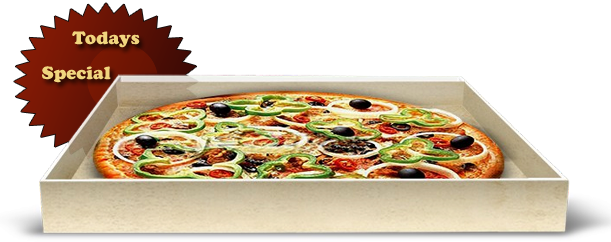
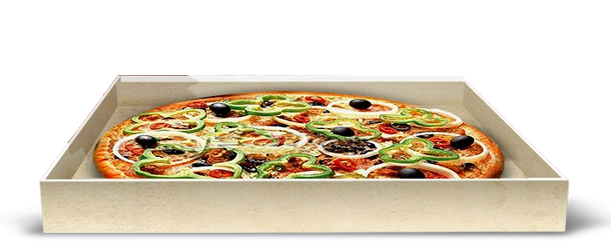
Finalização do trabalho

Changed region(s): [[0.0, 0.0, 0.3421, 0.6074]]

diff --git a/pizzaria/theme/static/css/style.css b/pizzaria/theme/static/css/style.css
@@ -50,7 +50,7 @@ div, h1, h2, p, form, label, input, textarea, img, span{
 	height:130px;
 }
 #logo-theme{
-	margin-left:20px;
+	margin-left:50px;
 }
 
 #navigation{
@@ -95,7 +95,6 @@ div, h1, h2, p, form, label, input, textarea, img, span{
 	width:257px;
 	height:185px;
 	float:left;
-	padding-top:20px;
 }
 #food_categories p{
 	padding-left:20px;
@@ -127,128 +126,43 @@ div, h1, h2, p, form, label, input, textarea, img, span{
 	border:dotted 1px #fff;
 	background-color:#e19a32;
 }
+#content{
+    background-color:#e6e6fa;
+    padding:10px;
+}
+
 #content p{
 	font:normal 11px/18px Verdana, Arial, Helvetica, sans-serif;
 	/*color:#fad18e;*/
 	padding:10px;
 }
 
-#content{
-	background-color:#e6e6fa;
-	padding:10px;
+#content #list-prod {
+    margin:0 5px 5px 0;
+    border-bottom: #000 1px dashed;
+    
 }
 
-/*
-
-#para p
-{
-font:normal 11px/18px Verdana, Arial, Helvetica, sans-serif;
-color:#fad18e;
-padding:10px;
+#content #list-prod p{
+    margin:0 0 5px 0;
+    padding:0;
+    font-weight: bolder;
+    
+}
+#content #list-prod p a,
+#content #list-prod p a:hover{
+    color: #65180c; 
+    
 }
 
-#cont
-{
-width:608px;
-}
-#cont h1
-{
-font:bold 18px/18px Arial, Helvetica, sans-serif;
-color:#fff;
-padding:20px 0 0 20px;
-}
-#cont h2
-{
-font:bold 18px/18px Arial, Helvetica, sans-serif;
-color:#e9b156;
-padding:10px 0 0 30px;
-}
-#cont h3
-{
-font:bold 14px/18px Arial, Helvetica, sans-serif;
-color:#e9b156;
-padding:0 0 0 30px;
-}
-#offer
-{
-width:195px;
-height:185px;
-background:url(images/hot_offer.jpg) 0 0 no-repeat;
-}
-#offer pre
-{
-font:bold 14px/20px Arial, Helvetica, sans-serif;
-color:#f7a70a;
-padding-left:100px;
-}
-#offer .more
-{
-background:url(images/button.jpg) 125px 0 no-repeat;
-width:61px;
-height:20px;
-font:normal 12px/18px Arial, Helvetica, sans-serif;
-padding-left:140px;
-}
-#offer .more a
-{
-color:#670b00;
-text-decoration:none;
+
+#content #list-prod span{
+    margin:3px 0 0 20px;
+    padding:0;
+    
+    
 }
 
-#special
-{
-width:195px;
-height:185px;
-background:url(images/todays_special.jpg) 0 0 no-repeat;
-}
-#special p
-{
-font:normal 11px/18px Verdana, Arial, Helvetica, sans-serif;
-color:#ffd8a4;
-padding:0 0 0 100px;
-width:90px;
-}
-
-#pizza_search
-{
-width:195px;
-height:185px;
-background:url(images/pizza_search.jpg) 0 0 no-repeat;
-}
-#search
-{
-padding-left:20px;
-}
-.textbox
-{
-background:url(images/textbox.png) 0 11px no-repeat;
-width:119px;
-height:33px;
-border:none;
-font:normal 12px/18px Arial, Helvetica, sans-serif;
-color:#65180c;
-}
-.button
-{
-background:url(images/search.png) 0 0 no-repeat;
-width:48px;
-height:47px;
-border:none;
-}
-
-#pizza_search p
-{
-font:normal 11px/18px Verdana, Arial, Helvetica, sans-serif;
-color:#ffd8a4;
-padding:10px 10px 0 10px;
-}
-
-#ad
-{
-padding:14px;
-}
-
-*/
 
 
 #footer{

diff --git a/pizzaria/theme/static/css/home.css b/pizzaria/theme/static/css/home.css
@@ -1,0 +1,112 @@
+#content{
+    background:#65180c !important;
+    
+}
+
+#delivery{
+    background:url(/++theme++pizzaria.theme/images/pizza_plaza.jpg) 0 0 no-repeat;
+    width:608px;
+    height:224px;
+}
+#delivery h1 {
+    font: bold 25px/18px Arial, Helvetica, sans-serif;
+    color:#bc1400;
+    padding:30px 0 0 150px;
+}
+#delivery ul{
+    padding-top:20px;
+}
+#delivery ul li{
+    display:block;
+    padding:5px 0 0 220px;
+    font: normal 18px/30px Arial, Helvetica, sans-serif;
+    background:url(/++theme++pizzaria.theme/images/bullet.png) 200px 13px no-repeat;
+}
+#para p{
+    font:normal 11px/18px Verdana, Arial, Helvetica, sans-serif;
+    color:#fad18e;
+    padding:10px;
+}
+
+#cont{
+    width:608px;
+}
+#cont h1{
+    font:bold 18px/18px Arial, Helvetica, sans-serif;
+    color:#fff;
+    padding:20px 0 0 20px;
+}
+#cont h2{
+    font:bold 18px/18px Arial, Helvetica, sans-serif;
+    color:#e9b156;
+    padding:10px 0 0 30px;
+}
+#cont h3{
+    font:bold 14px/18px Arial, Helvetica, sans-serif;
+    color:#e9b156;
+    padding:10px 0 0 30px;
+}
+#offer{
+    width:195px;
+    height:185px;
+    background:url(/++theme++pizzaria.theme/images/hot_offer.jpg) 0 0 no-repeat;
+}
+#offer p{
+    font:bold 14px/20px Arial, Helvetica, sans-serif;
+    color:#f7a70a;
+    padding-left:50% !important;
+    background-color: none;
+}
+#offer .more{
+    background:url(/++theme++pizzaria.theme/images/button.jpg) 125px 0 no-repeat;
+    width:61px;
+    height:20px;
+    font:normal 12px/18px Arial, Helvetica, sans-serif;
+    padding-left:140px;
+}
+#offer .more a{
+    color:#670b00;
+    text-decoration:none;
+}
+
+#special{
+    width:195px;
+    height:185px;
+    background:url(/++theme++pizzaria.theme/images/todays_special.jpg) 0 0 no-repeat;
+}
+#special p{
+    font:normal 11px/18px Verdana, Arial, Helvetica, sans-serif;
+    color:#ffd8a4;
+    padding:0 0 0 100px;
+    width:90px;
+}
+
+#pizza_search{
+    width:195px;
+    height:185px;
+    background:url(/++theme++pizzaria.theme/images/pizza_search.jpg) 0 0 no-repeat;
+}
+#search{
+    padding-left:20px;
+}
+.textbox{
+    background:url(/++theme++pizzaria.theme/images/textbox.png) 0 11px no-repeat;
+    width:119px;
+    height:33px;
+    border:none;
+    font:normal 12px/18px Arial, Helvetica, sans-serif;
+    color:#65180c;
+}
+.button{
+    background:url(/++theme++pizzaria.theme/images/search.png) 0 0 no-repeat;
+    width:49px;
+    height:47px;
+    border:none;
+}
+
+#pizza_search p{
+    font:normal 11px/18px Verdana, Arial, Helvetica, sans-serif;
+    color:#ffd8a4;
+    padding:10px 10px 0 10px !important;
+    margin: 0 !important;
+}

diff --git a/pizzaria/theme/views.py b/pizzaria/theme/views.py
@@ -1,0 +1,13 @@
+# -*- coding: utf-8 -*-
+from five import grok
+from zope.interface import Interface
+from Products.CMFCore.interfaces import ISiteRoot
+
+from zope.app.component.hooks import getSite
+
+class HomePageView(grok.View):
+    grok.context(ISiteRoot)
+    grok.require('zope2.View')
+    grok.name('home-page')
+    
+
